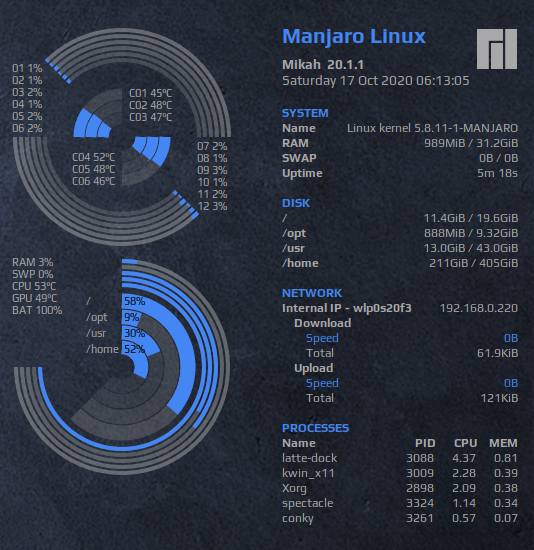
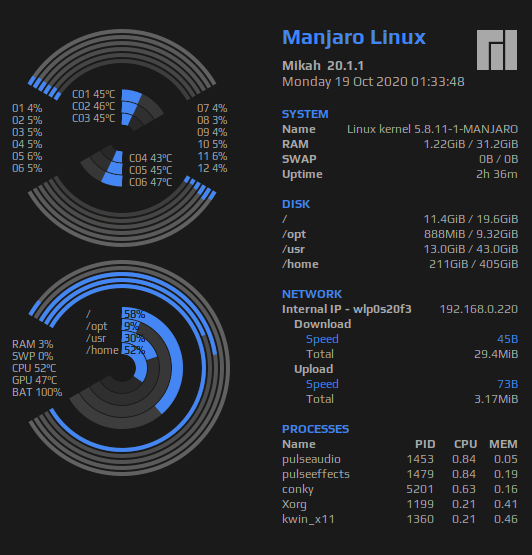
- Adjusted rings radius and text

diff --git a/readme.md b/readme.md
@@ -5,6 +5,9 @@
 
 ## Change Log
 
+- v1.0.1
+    - Adjusted rings radius and text
+
 - v1.0
     - Initial version
 
